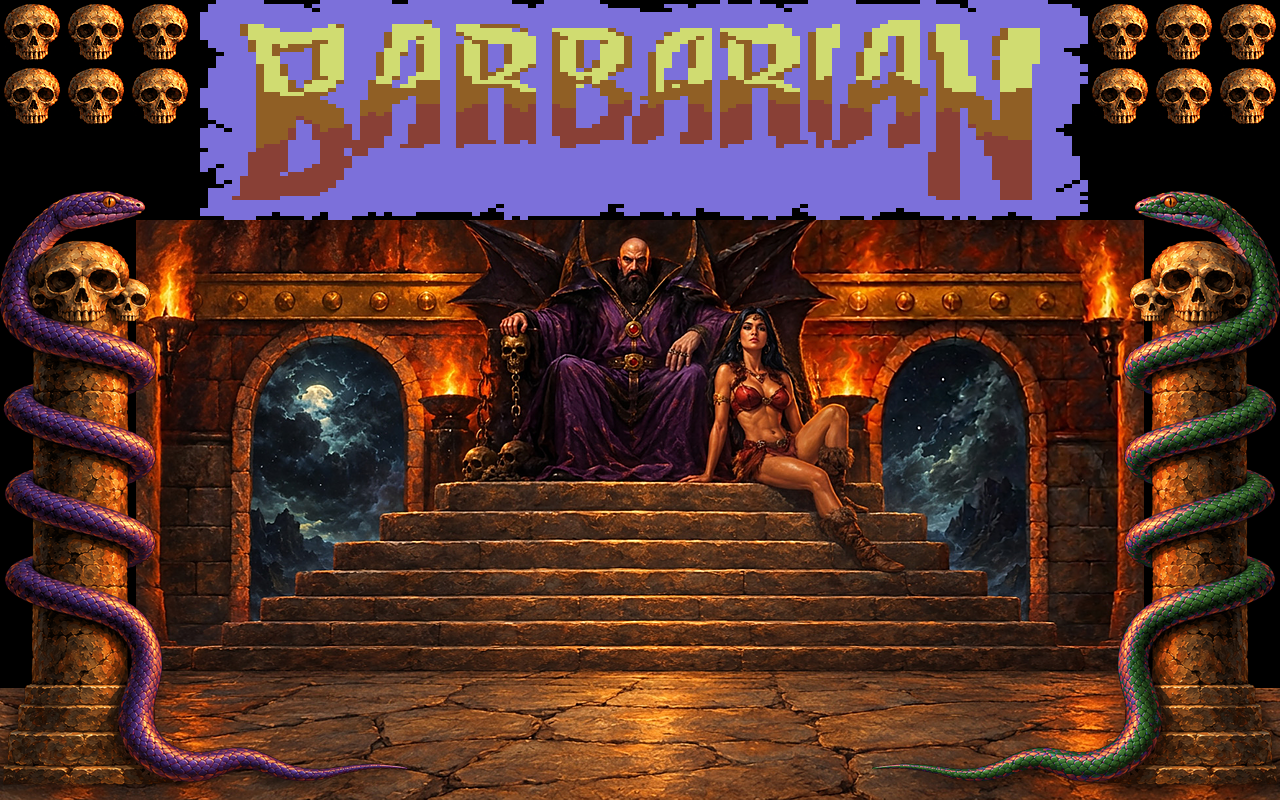
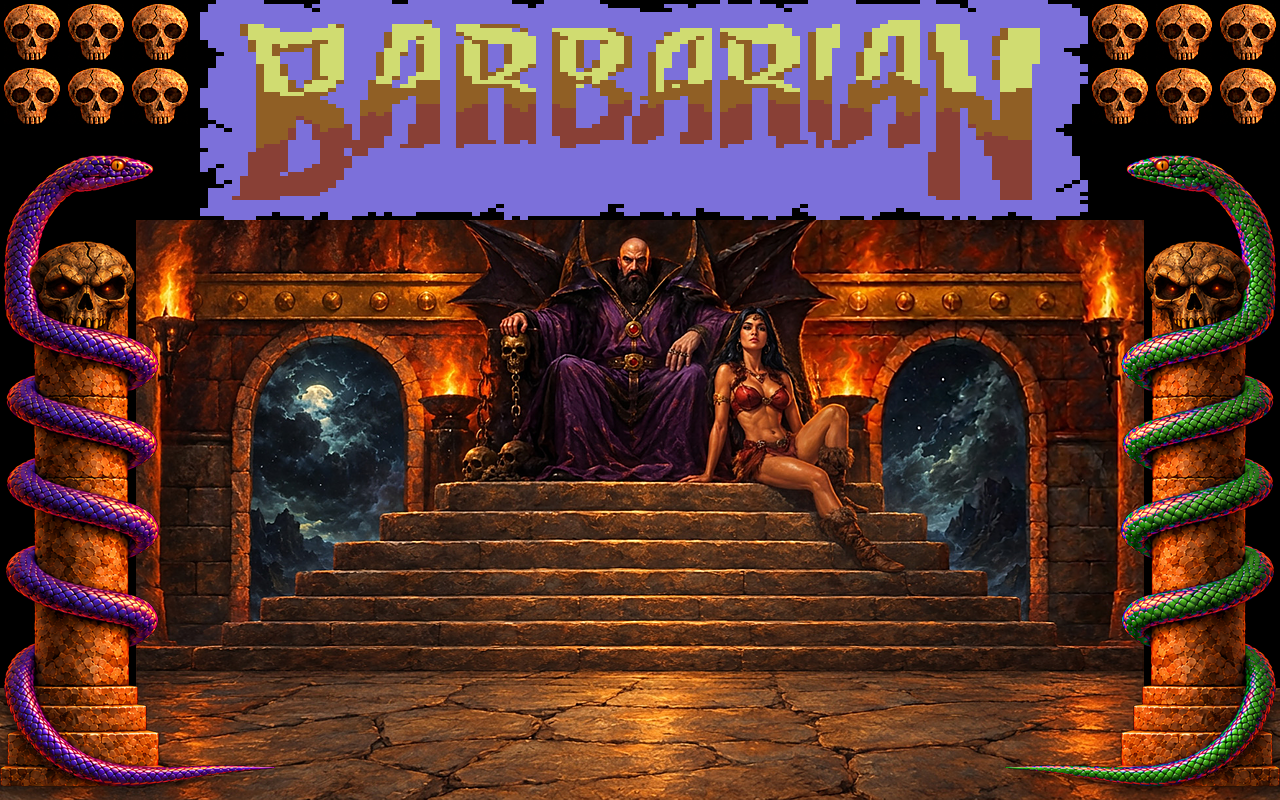
Reposition throne snakes' tails
Route the tails behind the columns and out beside the bases, and update the throne artwork across HD resolutions.

diff --git a/tools/draw_snakes_layout.py b/tools/draw_snakes_layout.py
@@ -3,9 +3,11 @@ draw_snakes.py). It is a rough 3D render on a black background, so that what the
 
 * a stone column on a stepped base, and the snake as ONE tube that winds round it in a regular helix: it crosses the
   front slanting down to the right, goes round the right edge, behind the shaft (where only what sticks out at the
-  sides shows) and comes back round the left edge. Its last turn crosses the front, and the tail leaves it there and falls
-  in front of the shaft and of the base to the floor, where it lies. At the top the neck rises along the left edge and
-  the head faces the arena, above the capital: a big skull with a smaller one at each side, and no stone cap;
+  sides shows) and comes back round the left edge. After its last front crossing it goes round the right edge once more and
+  behind the shaft and the base (hidden by them), and the tail comes out at the left edge, the one next to the edge of the
+  screen, low down by the base and apart from the last coil, and falls in front of the left corner of the base to the floor,
+  where it lies. At the top the neck rises along the left edge and
+  the head faces the arena, held high above the capital: one big skull set into the top of the shaft, and no stone cap;
 * the same top of the column in three poses of the head (calm, mouth half open with the tongue out, mouth wide open
   with fangs), one under the other, to the right of the column: the head of a plain snake, as wide as its neck;
 * a big skull, from which the skulls of the life indicators are cut.
@@ -33,9 +35,9 @@ SNAKE, STONE, BONE = (118, 98, 196), (112, 84, 62), (226, 208, 172)
 # of the neck and how much it arches over the skull (0..1), whether the fangs and the tongue show, and how far the tongue
 # reaches. The open mouth turns towards the fighter (down and to the right), as in a strike.
 POSES = [
-    dict(tilt=-4, jaw=0, neck=(122, 285), arch=0.0, fangs=False, tongue=0),
-    dict(tilt=12, jaw=22, neck=(176, 270), arch=0.6, fangs=False, tongue=58),
-    dict(tilt=26, jaw=44, neck=(214, 262), arch=1.0, fangs=True, tongue=70),
+    dict(tilt=-4, jaw=0, neck=(122, 232), arch=0.0, fangs=False, tongue=0),
+    dict(tilt=12, jaw=22, neck=(176, 218), arch=0.6, fangs=False, tongue=58),
+    dict(tilt=26, jaw=44, neck=(214, 210), arch=1.0, fangs=True, tongue=70),
 ]
 PANEL_DX, PANEL_DY, PANEL_BOTTOM = 295, (0, 340, 680), 480
 
@@ -159,22 +161,29 @@ def draw_column(sheet, with_base=True, bottom=None):
             sheet.paint((y, y + 1, x[0], x[-1] + 1), (nzz * half + 1)[None, :], np.clip(col * edge, 0, 255)[None, :, :], np.ones((1, len(x)), bool))
 
 
-def skull_image(width, height):
-    """A front view skull, lit from the right, as RGBA at SS times `width` x `height`."""
+def skull_image(width, height, eyes=(1.0, 1.0), skew=0.0, gaps=(), crack=False):
+    """A front view skull, lit from the right, as RGBA at SS times `width` x `height`. To make no two alike: `eyes` is the
+    size of each socket (one can be sunken and bigger), `skew` slides the jaw to a side (a fraction of the width), `gaps`
+    are the teeth that are missing (0 to 3) and `crack` runs a split from the brow down to the left socket."""
     w, h = width * SS, height * SS
     image = Image.new('L', (w, h), 0)
     d = ImageDraw.Draw(image)
+    j = skew * w
     d.ellipse([w * 0.02, h * 0.0, w * 0.98, h * 0.78], fill=255)
-    d.polygon([(w * 0.22, h * 0.6), (w * 0.78, h * 0.6), (w * 0.74, h * 0.9), (w * 0.64, h), (w * 0.36, h), (w * 0.26, h * 0.9)], fill=255)
+    d.polygon([(w * 0.22 + j * 0.4, h * 0.6), (w * 0.78 + j * 0.4, h * 0.6), (w * 0.74 + j, h * 0.9), (w * 0.64 + j, h),
+               (w * 0.36 + j, h), (w * 0.26 + j, h * 0.9)], fill=255)
     bone = np.asarray(image, np.float32) / 255
     holes = Image.new('L', (w, h), 0)
     d = ImageDraw.Draw(holes)
-    d.ellipse([w * 0.14, h * 0.34, w * 0.44, h * 0.64], fill=255)
-    d.ellipse([w * 0.56, h * 0.34, w * 0.86, h * 0.64], fill=255)
-    d.polygon([(w * 0.5, h * 0.6), (w * 0.43, h * 0.78), (w * 0.57, h * 0.78)], fill=255)
+    for cx, size in ((0.29, eyes[0]), (0.71, eyes[1])):
+        d.ellipse([w * (cx - 0.15 * size), h * (0.49 - 0.15 * size), w * (cx + 0.15 * size), h * (0.49 + 0.15 * size)], fill=255)
+    d.polygon([(w * 0.5 + j * 0.5, h * 0.6), (w * 0.43 + j * 0.5, h * 0.78), (w * 0.57 + j * 0.5, h * 0.78)], fill=255)
     for k in range(4):
-        x = w * (0.40 + 0.067 * k)
-        d.rectangle([x - w * 0.008, h * 0.88, x + w * 0.008, h], fill=255)
+        if k not in gaps:
+            x = w * (0.40 + 0.067 * k) + j
+            d.rectangle([x - w * 0.008, h * 0.88, x + w * 0.008, h], fill=255)
+    if crack:
+        d.line([(w * 0.46, h * 0.02), (w * 0.4, h * 0.14), (w * 0.44, h * 0.24), (w * 0.33, h * 0.36)], fill=255, width=max(int(w * 0.018), 1))
     holes = np.asarray(holes, np.float32) / 255
     blur = np.asarray(Image.fromarray((bone * 255).astype(np.uint8)).filter(ImageFilter.GaussianBlur(h * 0.09)), np.float32) / 255
     gy, gx = np.gradient(blur * h * 0.5)
@@ -185,18 +194,26 @@ def skull_image(width, height):
     return np.dstack([rgb, bone * 255]).astype(np.float32)
 
 
-def draw_skull(sheet, x, y, width, height, z):
-    """The skull from `skull_image` with its top left corner at (x, y), put where it is nearer than z."""
-    sk = skull_image(width, height)
-    y0, x0 = int(y * SS), int(x * SS)
+def draw_skull(sheet, x, y, width, height, z, tilt=0.0, flip=False, **look):
+    """The skull from `skull_image` centred where its top left corner at (x, y) would put the middle of it, turned by `tilt`
+    degrees (positive = anticlockwise) and mirrored if `flip`, put where it is nearer than z. `look` goes to `skull_image`."""
+    sk = skull_image(width, height, **look)
+    if flip:
+        sk = sk[:, ::-1]
+    if tilt:
+        image = Image.fromarray(np.ascontiguousarray(np.clip(sk, 0, 255).astype(np.uint8)), 'RGBA')
+        sk = np.asarray(image.rotate(tilt, Image.BICUBIC, expand=True), np.float32)
+    cx, cy = x + width / 2, y + height / 2
+    y0, x0 = int(cy * SS - sk.shape[0] / 2), int(cx * SS - sk.shape[1] / 2)
     window = (y0, y0 + sk.shape[0], x0, x0 + sk.shape[1])
     sheet.paint(window, np.full(sk.shape[:2], z, np.float32), sk[..., :3], sk[..., 3] > 127)
 
 
 # ---------------------------------------------------------------------------------------------------- the snake
-def helix_points(turns=4, end_angle=0.5):
+def helix_points(turns=4, end_angle=np.pi / 2 + 0.9):
     """The centre of the body from the left edge of the column at its top (the neck is joined there) down to where the last
-    turn crosses the front of the column, going right: 3D points (x, y, z), z towards the viewer. The tail leaves it there."""
+    turn, having crossed the front and gone round the right edge, is behind the shaft (hidden by it): 3D points (x, y, z), z
+    towards the viewer. The tail leaves it there."""
     last = 2 * np.pi * (turns - 1) + end_angle
     phi = np.linspace(-np.pi / 2 - 0.25, last, int((last + np.pi / 2) * HELIX / 3))
     k = PITCH / (2 * np.pi)
@@ -208,18 +225,18 @@ def neck_points(pose, count=110):
     further the neck rises before it bends over towards the head."""
     nx, ny = pose['neck']
     a = pose['arch']
-    top = bezier([(CX - HELIX, START), (CX - HELIX, START - 130 - 40 * a), (CX - HELIX + 14 + a * (nx - 123), ny + 70 - a * 100), (nx, ny)], count)
+    top = bezier([(CX - HELIX, START), (CX - HELIX, START - 190 - 40 * a), (CX - HELIX + 14 + a * (nx - 123), ny + 70 - a * 100), (nx, ny)], count)
     return np.column_stack([top, np.zeros(count)])
 
 
 def tail_points(helix):
-    """The tail: the body goes on from the end of `helix`, where the last turn crosses the front of the column, without a bend: it keeps
-    the slant of the coil (down to the right, as in the C64 picture), swings over the right edge of the base, which it
-    crosses in front, and comes down to the floor, where it curves to the right and lies, tapering to a thin tip."""
+    """The tail: the body goes on from the end of `helix`, behind the shaft and the base (hidden by them), falling, and comes
+    out at the left edge, the one next to the edge of the screen, low down by the base, apart from the last coil. It falls in
+    front of the left corner of the base to the floor, where it curves to the right and lies, tapering to a short thin tip."""
     x0, y0, z0 = helix[-1]
-    path = [tuple(helix[-40]), tuple(helix[-20]), (x0, y0, z0), (CX + 92, y0 + 28, 98), (CX + 122, y0 + 78, 104), (CX + 130, y0 + 138, 116), (CX + 114, y0 + 196, 130),
-            (CX + 106, 1236, 142), (CX + 136, 1268, 150), (CX + 196, 1278, 152), (CX + 258, 1264, 152), (CX + 322, 1270, 152),
-            (CX + 386, 1256, 152), (CX + 450, 1252, 152)]
+    path = [tuple(helix[-40]), tuple(helix[-20]), (x0, y0, z0), (CX + 20, y0 + 40, -107),     (CX - 50, 1120, -105), (CX - 98, 1150, -20),
+                (CX - 108, 1185, 80), (CX - 106, 1222, 130), (CX - 84, 1262, 150), (CX - 20, 1284, 152), (CX + 60, 1280, 152),
+            (CX + 150, 1268, 152), (CX + 240, 1258, 152), (CX + 300, 1254, 152)]
     curve = spline(path, 480)
     start = np.argmin(np.linalg.norm(curve - helix[-1], axis=1))   # the curve goes through the end of the coil: the tail begins there
     return curve[start:]
@@ -271,11 +288,8 @@ def draw_head(sheet, pose, dx=0, dy=0):
 def add_top(sheet, pose, with_base):
     """The top of the column with its skull, and the neck and the head in `pose`."""
     draw_column(sheet, with_base=with_base, bottom=None if with_base else PANEL_BOTTOM)
-    # the capital is all skulls: a big one in front of the top of the shaft and a smaller one at each side, which make it
-    # wider than the shaft (the one on the left is behind the neck of the snake)
-    draw_skull(sheet, CX - 126, TOP - 52, 92, 76, -5)
-    draw_skull(sheet, CX + 34, TOP - 52, 92, 76, 200)
-    draw_skull(sheet, CX - 90, TOP - 118, 180, 144, 250)
+    # the capital is one big skull, set into the top of the shaft: a little wider than it, its jaw sunk into the stone
+    draw_skull(sheet, CX - 94, TOP - 112, 188, 152, 250, tilt=-5, skew=-0.03, eyes=(1.1, 0.92), crack=True)
     sheet.tube(neck_points(pose), TUBE)
     draw_head(sheet, pose)
 

diff --git a/tools/draw_snakes.py b/tools/draw_snakes.py
@@ -6,8 +6,8 @@ life of each fighter as 6 brown blobs. They are painted here in the style of the
 tools/snakes_painting.png is an oil painting made with an image model, in the style of tools/throne_painting.jpg, from
 a layout reference (tools/snakes_layout.png: the pillar with its base and the snake coiled round it, the three head
 poses as they sit on the game grid, and a big skull) on a black background. It holds the column on a stepped base, with
-the violet snake (the colour of player A's) wrapped round it in a spiral, its last coil crossing the front and its tail
-falling in front of the shaft and the base and lying on the floor, the head in the two poses of a hurt snake, and the
+the violet snake (the colour of player A's) wrapped round it in a spiral, its tail leaving the last coil behind the shaft,
+coming out low down at the left edge (next to the edge of the screen), apart from the coil, and falling to the floor, where it lies, the head in the two poses of a hurt snake, and the
 skull. The column is capped by a capital made of skulls only. This script maps it onto the game:
 
 * the column goes into throne.png at both sides (`paint_pillars`): player B's is player A's mirrored and recoloured
@@ -33,7 +33,7 @@ MASTER = 6                   # pixels per game pixel of the column that is kept 
 PX_X, PX_Y = 7.05, 7.49      # pixels of the painting per game pixel, across and down: the model paints the column a little
                              # taller than the layout, and these give back the proportions of the layout (see below)
 SPLIT_ROW = 88                # the shaft, the coils and the base (below this game row) are reduced a little more, to PX_Y_LOW,
-PX_Y_LOW = 8.11               # so that the foot of the column, which the model paints low, lands on row 196: see SPLIT_Y
+PX_Y_LOW = 8.0                # so that the foot of the column, which the model paints low, lands on row 196: see SPLIT_Y
 FLOOR = 200
 HEAD_TOP, HEAD_ROWS, HEAD_WIDTH = 36, 44, 62   # where the game draws the head poses (`snakeY` in stage.js), and their size: they end at row 80, a
                                                # little below where the column that the fighters walk behind starts (OVERLAY_TOP)
@@ -53,15 +53,15 @@ OVERLAY_TOP, OVERLAY_ROWS, OVERLAY_WIDTH = 70, 120, 46
 # row), where the first guess of the two other head poses is, and the big skull. The top is at row 60 of the game and the
 # foot at about 196, which with the width of the shaft gives PX_X and PX_Y.
 COLUMN_X = 22
-RIM_Y = 305
+RIM_Y = 318
 SPLIT_Y = RIM_Y + (SPLIT_ROW - PILLAR_TOP) * PX_Y   # the painting row of SPLIT_ROW: the foot is at 1391, row 196 of the game
 SHEET_X, SHEET_Y = 328, 1250
-POSE_GUESS = {1: (312, 352), 2: (312, 700)}
+POSE_GUESS = {1: (310, 360), 2: (310, 700)}
 # the first row of the painting that belongs to each of these poses (above it the sheet holds the picture before)
-POSE_START = {1: 520, 2: 865}
+POSE_START = {1: 520, 2: 855}
 SKULL_AREA = (655, 130, 900, 380)
 # the part of the column that the head poses are lined up on: the skulls, rows and columns
-MATCH = (300, 460, 60, 290)
+MATCH = (315, 455, 60, 290)
 # The skulls of the column never move: in every pose they are the ones of the calm pose, and only what is snake (violet,
 # or the red of the mouth and the tongue) is taken from the pose. The box that holds them, in game pixels (left, right,
 # top; it goes down to the bottom of the poses' pictures):
